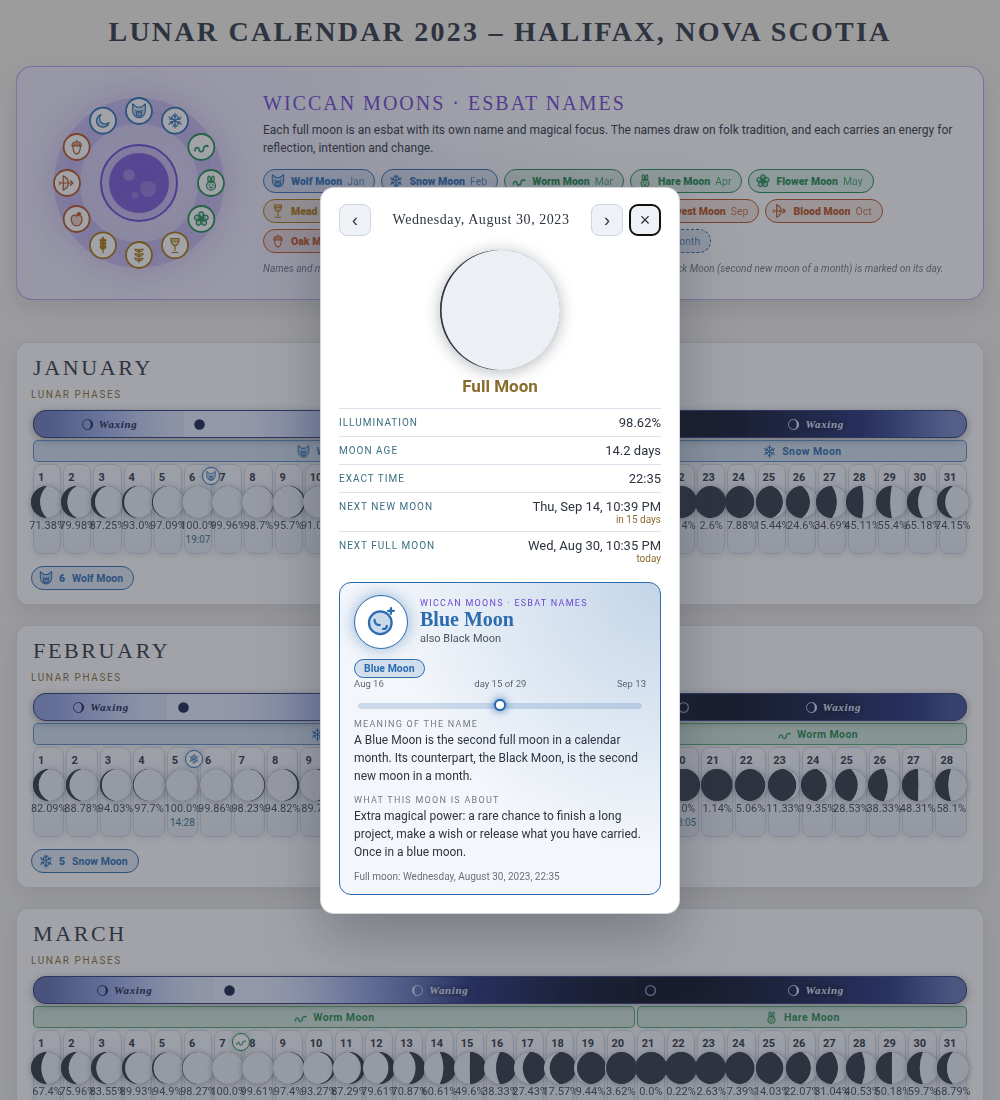
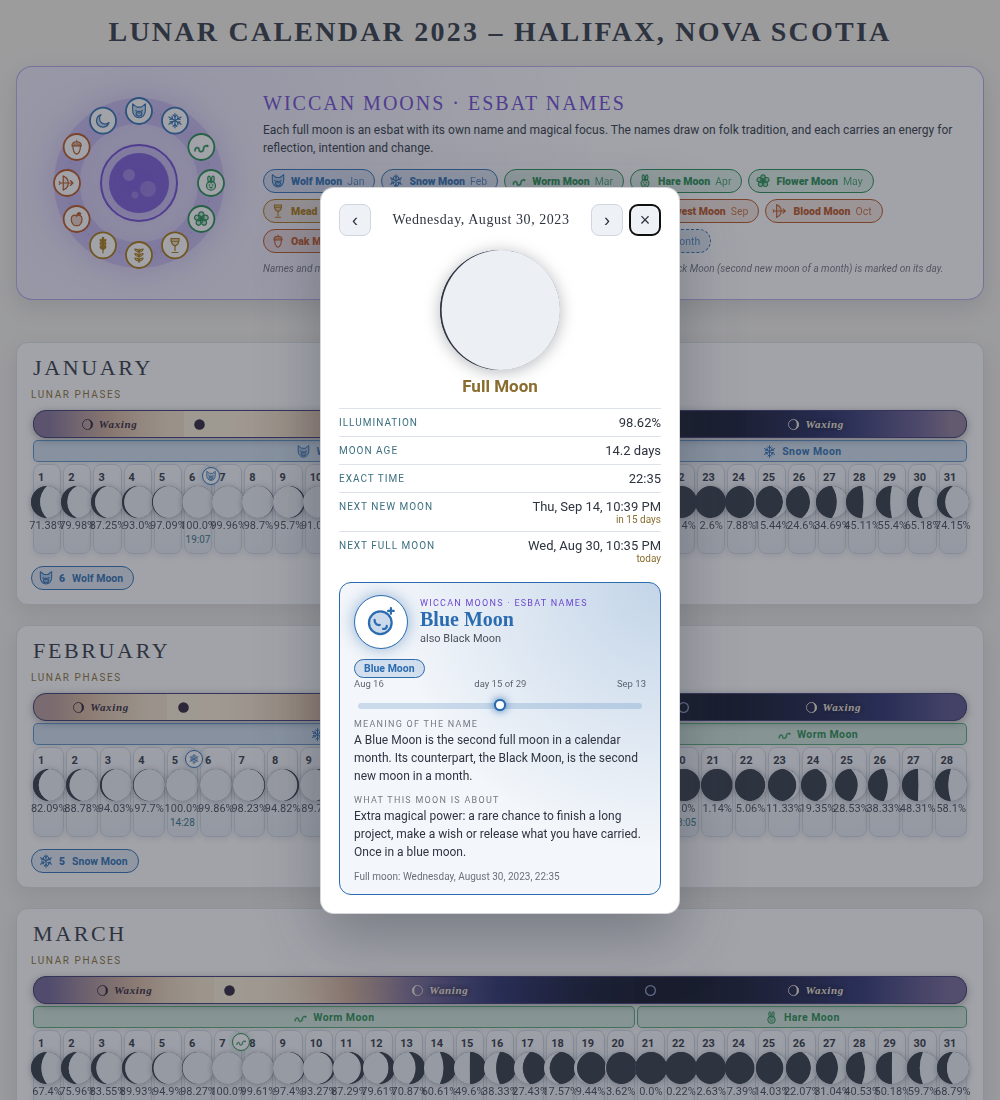
style: warm moonlight in the phase band gradient (dusky violet to soft cream); refresh screenshots

diff --git a/css/default.css b/css/default.css
@@ -107,7 +107,7 @@ td.phase-band {
     height: 26px;
     border-radius: 13px;
     overflow: hidden;
-    border: 1px solid #2c3a7a;
+    border: 1px solid #3a3470;
     background: #0b1026;
     box-shadow: inset 0 0 12px rgba(0, 0, 0, 0.6), 0 2px 8px rgba(0, 0, 0, 0.35);
 }
@@ -117,11 +117,11 @@ td.phase-band {
     display: flex;
     align-items: center;
     justify-content: center;
-    color: #dfe6ff;
+    color: #f1e6d8;
     text-shadow: 0 0 6px rgba(0, 0, 0, 0.85);
 }
 
-.pb-seg.pb-lit { color: #16204a; text-shadow: none; }
+.pb-seg.pb-lit { color: #2b1d35; text-shadow: none; }
 .pb-seg[data-p="new"] { color: #8b97c9; }
 
 .pb-inner {

diff --git a/lunar/phase_band.py b/lunar/phase_band.py
@@ -8,8 +8,9 @@ italic label; narrow segments show the glyph only.
 
 from datetime import date
 
-# (illumination 0..1, rgb): deep night sky -> moonlight
-_STOPS = [(0.0, (8, 12, 31)), (0.5, (36, 50, 125)), (0.85, (150, 168, 230)), (1.0, (232, 237, 255))]
+# (illumination 0..1, rgb): deep night sky -> dusky mauve -> amber -> warm moonlight
+_STOPS = [(0.0, (8, 12, 31)), (0.4, (38, 44, 108)), (0.68, (112, 98, 148)),
+          (0.88, (212, 176, 150)), (1.0, (252, 238, 212))]
 
 _NAMES = {"New Moon": "New", "Full Moon": "Full", "Waxing": "Waxing", "Waning": "Waning"}
 _TITLES = {"New Moon": "New Moon", "Full Moon": "Full Moon", "Waxing": "Waxing", "Waning": "Waning"}
@@ -32,7 +33,7 @@ def _colour(illum_pct: float) -> str:
             f = (t - t0) / (t1 - t0)
             r, g, b = (round(a + (b_ - a) * f) for a, b_ in zip(c0, c1))
             return f"rgb({r},{g},{b})"
-    return "rgb(232,237,255)"
+    return "rgb(252,238,212)"
 
 
 def _glyph(phase: str, mirror: bool) -> str:
@@ -61,7 +62,7 @@ def phase_band_row(days: int, phases: dict, illum: dict, mirror: bool = False) -
         if span == 1:
             stops = f"{_colour(illum[d])}, {_colour(illum[d])}"
         centre = illum[d + span // 2]
-        lit = phase == "Full Moon" or centre >= 80
+        lit = phase == "Full Moon" or centre >= 78
         label = f"<span class='pb-name'>{_NAMES[phase]}</span>" if span >= 4 else ""
         segs.append(
             f"<div class='pb-seg{' pb-lit' if lit else ''}' data-p='{phase.split()[0].lower()}' "
